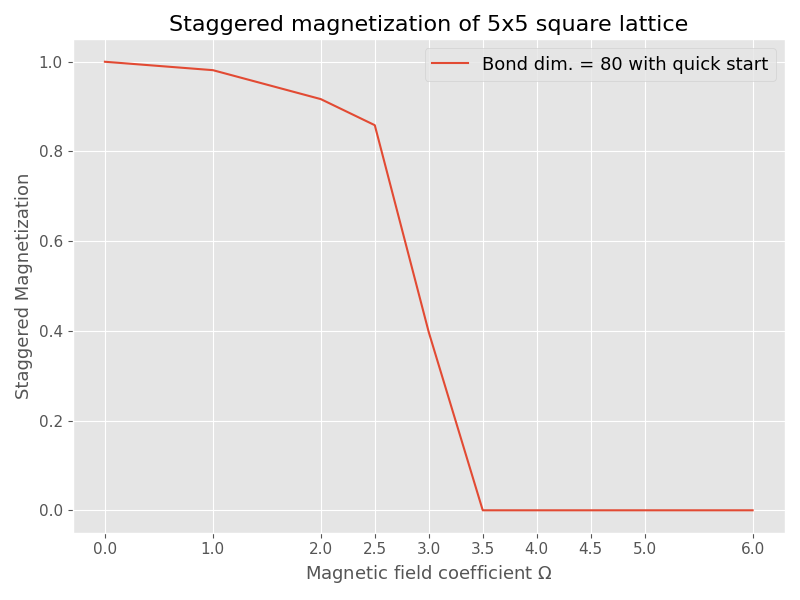
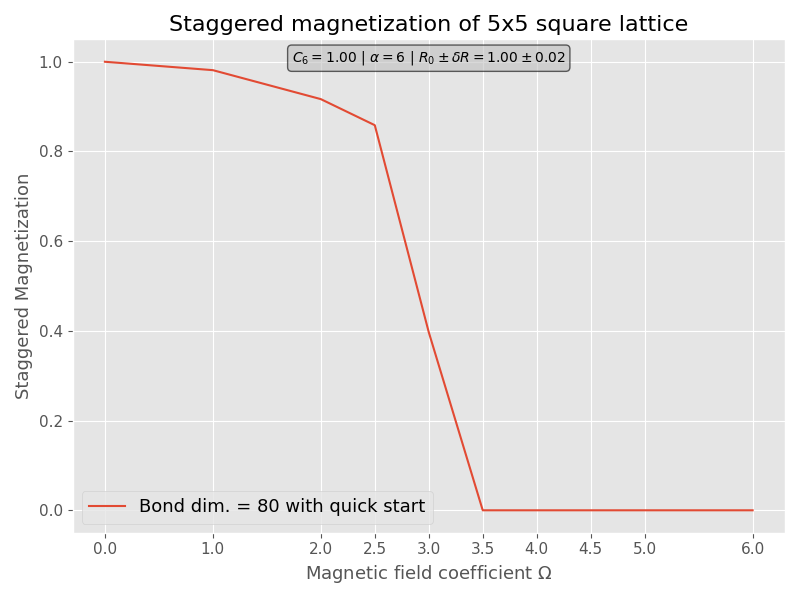
Add extra information on the plots

Changed region(s): [[0.3438, 0.06, 0.9688, 0.12], [0.125, 0.81, 0.5312, 0.87]]

diff --git a/data-gen/plot_benchmarks_utiliites.py b/data-gen/plot_benchmarks_utiliites.py
@@ -94,7 +94,28 @@ def calulate_neel_magnetization(mag_per_site: np.ndarray, L:int=5) -> float:
 
     return magnetization
 
-def plot_magnetization_phase_diagram(nx, ny, path_to_folder, optimal_bond_dim, save_fig=False):
+def add_physics_textbox(ax, physics_params):
+    """
+    Add a text box with physics parameters to the plot.
+    
+    Args:
+        ax: matplotlib axis
+        physics_params: dict containing physics parameters (C6, alpha, R, amp_R)
+    """
+    print(physics_params.keys())
+    textstr = ' | '.join((
+        r'$C_6 = %.2f$' % (physics_params['C6'],),
+        r'$\alpha = %d$' % (physics_params['alpha'],),
+        r'$R_0\pm\delta R= %.2f\pm%.2f$' % (physics_params['R'], physics_params['amp_R']),
+    ))
+    
+    # Place text box in upper center
+    props = dict(boxstyle='round', facecolor='silver', alpha=0.6, edgecolor='black', linewidth=1)
+    ax.text(0.5, 0.98, textstr, transform=ax.transAxes, fontsize=10,
+            verticalalignment='top', horizontalalignment='center',
+            bbox=props)
+
+def plot_magnetization_phase_diagram(nx, ny, path_to_folder, optimal_bond_dim, save_fig=False, physics_params=None):
     """
     Plot the heat map phase diagram.
     """
@@ -102,6 +123,10 @@ def plot_magnetization_phase_diagram(nx, ny, path_to_folder, optimal_bond_dim, s
     
     fig, ax = plt.subplots(figsize=(8, 6)) 
     ax.plot(deltas, staggered_magnetization, label=f"Bond dim. = {optimal_bond_dim} with quick start")
+    
+    if physics_params:
+        add_physics_textbox(ax, physics_params)
+    
     ax.legend(fontsize=13)
     ax.set_title(f'Staggered magnetization of {nx}x{ny} square lattice', fontsize=16)
     ax.set_ylabel('Staggered Magnetization', fontsize=13)
@@ -115,18 +140,9 @@ def plot_magnetization_phase_diagram(nx, ny, path_to_folder, optimal_bond_dim, s
         plt.savefig(f"{path_to_folder}/imgs/magnetization_phase_diagram_{nx}x{ny}.png")
     plt.show()
 
-def plot_magnetization_heatmaps(nx, ny, path_to_folder,  optimal_bond_dim, lattice_unit=10, color_map="inferno"):
+def plot_magnetization_heatmaps(nx, ny, path_to_folder, optimal_bond_dim, lattice_unit=10, color_map="inferno", physics_params=None):
     """
     Create heatmaps of magnetization for different bond dimensions and deltas.
-    
-    Parameters:
-    -----------
-    nx, ny : int
-        Dimensions of the lattice
-    path_to_folder : str
-        Path to the folder containing NPZ files
-    lattice_unit : int
-        The the length between nearest neighbor spins
     """
     # Extract data from files
     deltas, staggered_magnetization = load_data_to_plot(path_to_folder, nx, ny, optimal_bond_dim)
@@ -149,6 +165,9 @@ def plot_magnetization_heatmaps(nx, ny, path_to_folder,  optimal_bond_dim, latti
                     vmax=1.0,
                     extent=[deltas[0], deltas[-1], 0, 1])
     
+    if physics_params:
+        add_physics_textbox(ax, physics_params)
+    
     # Customize axes
     ax.set_title(f'Bond dim = 150 with quick start', fontsize=16)
     ax.set_ylabel('Nominal dist.', fontsize=13)
@@ -165,8 +184,8 @@ def plot_magnetization_heatmaps(nx, ny, path_to_folder,  optimal_bond_dim, latti
     plt.tight_layout(rect=[0, 0, 0.9, 1])  # Adjust layout to make room for wider colorbar
     return fig
 
-
-def draw_plots_error_vs_maxdim(nx:int, ny:int, deltas:list[float], amp_R:float=0.0, filename:str="plot_err_vs_maxdim", vs:str="max_trunc_err", folder="Experiment_1"):
+def draw_plots_error_vs_maxdim(nx:int, ny:int, deltas:list[float], amp_R:float=0.0, filename:str="plot_err_vs_maxdim", 
+                              vs:str="max_trunc_err", folder="Experiment_1", physics_params=None):
     plt.figure(figsize=(11, 7))
     plt.style.use('ggplot') # 'seaborn-v0_8-darkgrid' , 'tableau-colorblind10'
     plt.xlabel("Bond dimension of DMRG", fontsize=18)
@@ -174,6 +193,9 @@ def draw_plots_error_vs_maxdim(nx:int, ny:int, deltas:list[float], amp_R:float=0
     plt.xticks(fontsize=16)
     plt.yticks(fontsize=16)
     plt.grid(True)
+
+    if physics_params:
+        add_physics_textbox(plt.gca(), physics_params)
 
     line_styles = ["-", "--", "-.", ":", "-", "--", "-.", ":", "-", "--", "-.", ":"]
 

diff --git a/data-gen/plot_benchmarks.py b/data-gen/plot_benchmarks.py
@@ -27,6 +27,9 @@ def load_plot_parameters(json_file: str) -> Tuple[Dict[str, Any], str]:
         'nx': params['lattice']['nx'],
         'ny': params['lattice']['ny'],
         'amp_R': params['lattice']['amp_R'],
+        'alpha': params['lattice']['alpha'],
+        'R': params['lattice']['R'],
+        'C6': params['physics']['C6'],
         'deltas': params['deltas'],
         'output_folder': params['output']['folder']
     }
@@ -48,13 +51,17 @@ def main():
     # Load parameters from JSON
     plot_params, output_folder, bd_min, bd_max, bd_step = load_plot_parameters(args.params)
     nx, ny = plot_params['nx'], plot_params['ny']
+    alpha = plot_params['alpha']
+    R = plot_params['R']
     amp_R = plot_params['amp_R']
+    C6 = plot_params['C6']
     deltas = plot_params['deltas']
     vs = args.vs
 
     # Step 1: Plot error vs bond dimension
     print(f"Plotting for: size = {nx}x{ny}, deltas = {deltas}")
-    pbu.draw_plots_error_vs_maxdim(nx, ny, deltas, amp_R, vs=vs, folder=output_folder)
+    pbu.draw_plots_error_vs_maxdim(nx, ny, deltas, amp_R, vs=vs, folder=output_folder, 
+                                  physics_params={'C6': C6, 'alpha': alpha, 'R': R, 'amp_R': amp_R})
     
     # Step 2: Ask for optimal bond dimension
     print(f"\nWhat is the optimal bond dimension, from 1 to {bd_max} with step {bd_step} (enter below and press enter): ")
@@ -64,7 +71,8 @@ def main():
         optimal_bond_dim = int(input())
 
     # Step 3: Plot magnetization phase diagram
-    pbu.plot_magnetization_phase_diagram(nx, ny, output_folder, optimal_bond_dim, save_fig=True)
+    pbu.plot_magnetization_phase_diagram(nx, ny, output_folder, optimal_bond_dim, save_fig=True,
+                                       physics_params={'C6': C6, 'alpha': alpha, 'R': R, 'amp_R': amp_R})
     
 if __name__ == "__main__":
     main()
